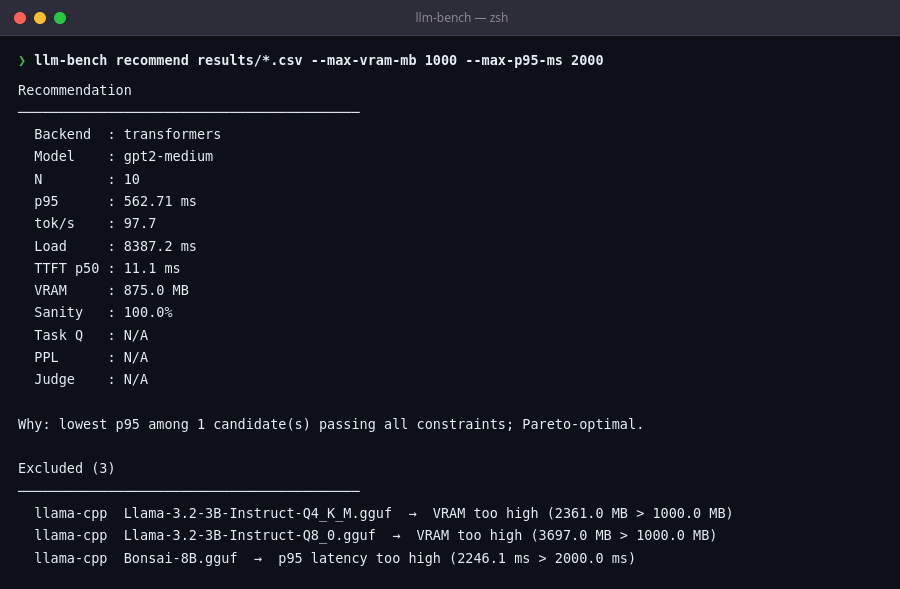
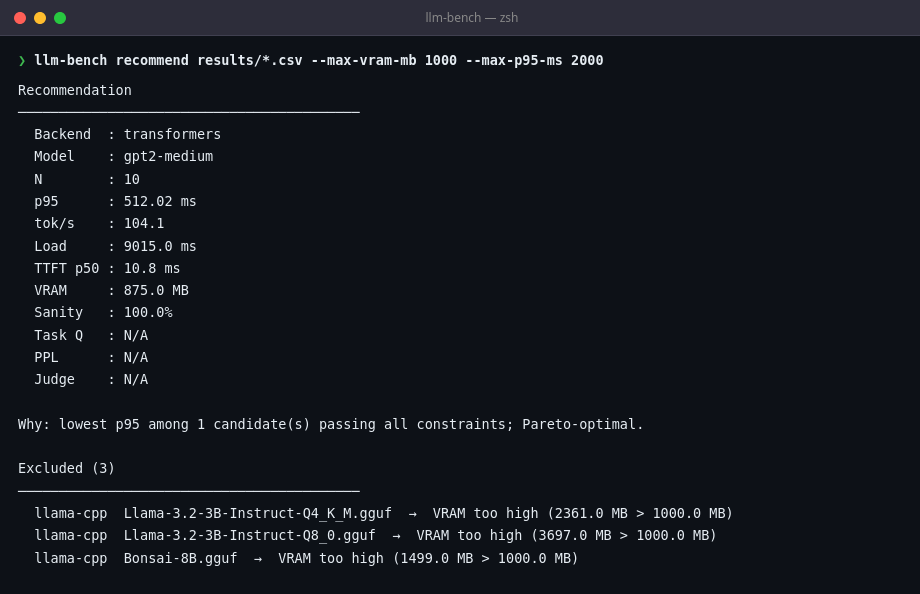
fix: correct recommend example and update screenshots
- Use quant-q4km/q8 CSVs in recommend example so Q4_K_M wins
- Fix exclusion reason: p95 too high (not VRAM) for Q8_0
- Update pip install to include [server] extra and git URL
- Retake cli-recommend.png and pareto-table.png from current CSVs
  (Q4_K_M p95=939.85ms, gpt2-medium p95=512.02ms)

diff --git a/README.md b/README.md
@@ -16,7 +16,7 @@ for the best configuration. Includes a built-in browser dashboard.
 ## Quick Start
 
 ```bash
-pip install git+https://github.com/Happynood/llm-inference-benchmark.git
+pip install "llm-inference-benchmark[server] @ git+https://github.com/Happynood/llm-inference-benchmark.git"
 llm-bench serve
 # Open http://localhost:8080
 ```
@@ -137,10 +137,9 @@ Full reference: **[docs/cli.md](docs/cli.md)**
 ### Constraint-based recommendation
 
 ```bash
-llm-bench recommend results/*.csv \
+llm-bench recommend results/quant-q4km.csv results/quant-q8.csv \
   --max-vram-mb 4096 \
   --max-p95-ms 1000 \
-  --max-ttft-ms 200 \
   --min-sanity 1.0
 ```
 
@@ -149,13 +148,16 @@ Recommendation
 ──────────────────────────────────────────
   Backend  : llama-cpp
   Model    : Llama-3.2-3B-Instruct-Q4_K_M.gguf
-  p95      : 915.86 ms
-  tok/s    : 55.5
-  TTFT p50 : 142.0 ms
+  p95      : 939.85 ms
+  tok/s    : 53.9
   VRAM     : 2361.0 MB
   Sanity   : 100.0%
 
 Why: lowest p95 among 1 candidate(s) passing all constraints; Pareto-optimal.
+
+Excluded (1)
+──────────────────────────────────────────
+  llama-cpp  Llama-3.2-3B-Instruct-Q8_0.gguf  →  p95 latency too high (1196.4 ms > 1000.0 ms)
 ```
 
 ---